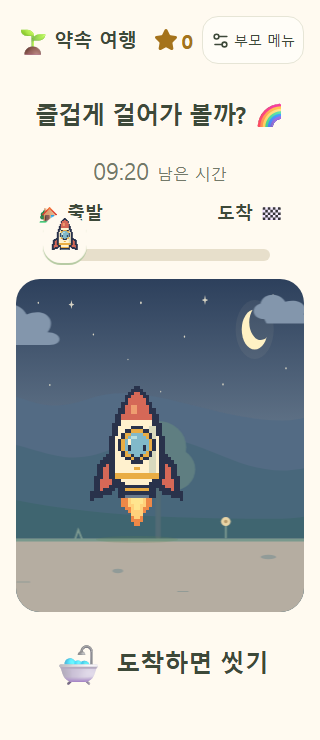
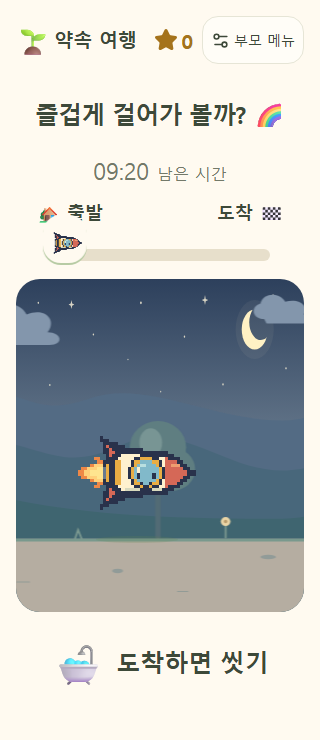
Make pixel rocket fly horizontally toward the destination

Changed region(s): [[0.25, 0.4973, 0.625, 0.7149], [0.1562, 0.2797, 0.25, 0.3419]]

diff --git a/scripts/vehicleArt.ts b/scripts/vehicleArt.ts
@@ -56,30 +56,31 @@ export function buildVehicleFrame(id: PixelVehicleId, frame: number) {
       rect(23 - puff, 11 - puff, 4, 2, 'w'); rect(22 - puff, 12 - puff, 6, 2, 'W');
     }
   } else {
-    // One upright axis at x=20 aligns the nose, window, paired fins, nozzle and exhaust.
+    // Side-on flight: nose points right and exhaust trails left on the horizontal y=30 axis.
     if (moving) {
       const pulse = [0, 1, 2, 1, 0, 2, 1, 2][phase];
-      polygon([[16, 37], [24, 37], [25, 40], [23, 43], [23, 41], [21, 45 + pulse], [19, 45 + pulse], [17, 41], [17, 43], [15, 40]], 'F');
-      polygon([[17, 37], [23, 37], [23, 40], [21, 43 + pulse], [19, 43 + pulse], [17, 40]], 'f');
-      polygon([[18, 37], [22, 37], [21, 40 + pulse], [19, 40 + pulse]], 'g');
+      polygon([[10, 26], [6, 25], [7, 27], [3 - pulse, 29], [3 - pulse, 31], [7, 33], [6, 35], [10, 34]], 'F');
+      polygon([[10, 27], [7, 27], [5 - pulse, 29], [5 - pulse, 31], [7, 33], [10, 33]], 'f');
+      polygon([[10, 28], [8, 28], [6 - pulse, 30], [8, 32], [10, 32]], 'g');
     }
-    polygon([[12, 23], [7, 28], [5, 39], [13, 36], [16, 30]], 'O');
-    polygon([[28, 23], [33, 28], [35, 39], [27, 36], [24, 30]], 'O');
-    polygon([[12, 26], [9, 29], [8, 36], [12, 34], [14, 29]], 'R');
-    polygon([[28, 26], [31, 29], [32, 36], [28, 34], [26, 29]], 'R');
-    polygon([[20, 2], [24, 6], [27, 12], [29, 20], [29, 31], [25, 36], [15, 36], [11, 31], [11, 20], [13, 12], [16, 6]], 'O');
-    polygon([[20, 4], [23, 7], [25, 13], [27, 20], [27, 30], [24, 34], [16, 34], [13, 30], [13, 20], [15, 13], [17, 7]], 'W');
-    polygon([[20, 4], [23, 7], [25, 13], [15, 13], [17, 7]], 'R');
-    rect(13, 30, 14, 2, 'G'); rect(19, 28, 2, 1, 'G');
-    rect(14, 34, 12, 4, 'O'); rect(16, 35, 8, 1, 'G'); rect(16, 37, 8, 1, 'T');
-    // Mirror on the native grid so polygon boundary ties cannot offset the tip or exhaust by half a pixel.
-    for (const row of canvas.pixels) for (let x = 0; x < 20; x++) row[39 - x] = row[x];
-    rect(18, 8, 2, 3, 'P'); rect(24, 15, 2, 15, 'w');
-    disc(20, 21, 6, 'O'); disc(20, 21, 5, 'G'); disc(20, 21, 4, 'B');
-    rect(18, 18, 2, 1, 'b'); rect(17, 19, 1, 2, 'W');
-    rect(17, 21, 1, wink ? 1 : 2, 'O'); rect(22, 21, 1, wink ? 1 : 2, 'O');
-    line(18, 24, 19, 25, 'O'); line(19, 25, 20, 25, 'O'); line(20, 25, 21, 24, 'O');
-    if (moving && phase % 3 === 0) rect(19, 14, 2, 1, 'g');
+    polygon([[20, 25], [15, 21], [8, 18], [10, 26], [13, 28]], 'O');
+    polygon([[20, 35], [15, 39], [8, 42], [10, 34], [13, 32]], 'O');
+    polygon([[17, 25], [13, 23], [10, 21], [12, 26], [14, 27]], 'R');
+    polygon([[17, 35], [13, 37], [10, 39], [12, 34], [14, 33]], 'R');
+    polygon([[39, 30], [35, 26], [29, 23], [16, 22], [11, 25], [10, 27], [10, 33], [11, 35], [16, 38], [29, 37], [35, 34]], 'O');
+    polygon([[37, 30], [34, 27], [28, 25], [16, 24], [13, 26], [12, 28], [12, 32], [13, 34], [16, 36], [28, 35], [34, 33]], 'W');
+    polygon([[37, 30], [34, 27], [29, 25], [29, 35], [34, 33]], 'R');
+    pixel(38, 29, 'O');
+    rect(13, 26, 2, 8, 'G');
+    rect(9, 26, 4, 8, 'O'); rect(10, 27, 1, 6, 'G'); rect(9, 28, 1, 4, 'T');
+    // Mirror the outline and flame before adding upright facial features and lighting.
+    for (let y = 12; y < 30; y++) canvas.pixels[59 - y] = [...canvas.pixels[y]];
+    rect(31, 27, 3, 1, 'P'); rect(16, 35, 12, 1, 'w');
+    disc(23, 30, 6, 'O'); disc(23, 30, 5, 'G'); disc(23, 30, 4, 'B');
+    rect(21, 27, 2, 1, 'b'); rect(20, 28, 1, 2, 'W');
+    rect(20, 30, 1, wink ? 1 : 2, 'O'); rect(25, 30, 1, wink ? 1 : 2, 'O');
+    line(21, 33, 22, 34, 'O'); line(22, 34, 23, 34, 'O'); line(23, 34, 24, 33, 'O');
+    if (moving && phase % 3 === 0) rect(16, 29, 1, 2, 'g');
   }
   return { pixels: canvas.pixels, paths: canvas.paths() };
 }

diff --git a/tests/pixelVehicles.test.ts b/tests/pixelVehicles.test.ts
@@ -72,17 +72,17 @@ test('driving frames change wheels/exhaust without shifting the body, and stoppe
   for (const frame of [0, 9, 10, 11, 12, 13]) assert.ok(!buildVehicleFrame('rocket', frame).pixels.flat().includes('F'));
 });
 
-test('rocket nose, body, paired fins, nozzle and flame share an upright center in every frame', () => {
+test('rocket points right on a horizontal axis with its exhaust behind it in every frame', () => {
   for (let frame = 0; frame < VEHICLE_SHEET.frames; frame++) {
     const { pixels } = buildVehicleFrame('rocket', frame);
-    for (const [y, row] of pixels.entries()) {
-      for (let x = 0; x < 20; x++) assert.equal(Boolean(row[x]), Boolean(row[39 - x]), `Frame ${frame} row ${y} leans off center`);
-      const occupied = row.flatMap((color, x) => color ? [x] : []);
-      if (occupied.length) assert.equal(occupied[0] + occupied.at(-1)!, 39, `Frame ${frame} row ${y} has a shifted axis`);
-      if (y >= 38) for (let x = 0; x < 20; x++) {
-        const flame = (color: typeof row[number]) => color === 'F' || color === 'f' || color === 'g';
-        assert.equal(flame(row[x]), flame(row[39 - x]), `Frame ${frame} exhaust points sideways`);
-      }
+    for (let x = 0; x < 40; x++) {
+      const column = pixels.map((row) => row[x]);
+      const occupied = column.flatMap((color, y) => color ? [y] : []);
+      if (occupied.length) assert.equal(occupied[0] + occupied.at(-1)!, 59, `Frame ${frame} column ${x} tilts off the horizontal axis`);
+      for (let y = 12; y < 30; y++) assert.equal(Boolean(column[y]), Boolean(column[59 - y]), `Frame ${frame} column ${x} has an uneven outline`);
     }
+    assert.equal(pixels[29][38], 'O', 'Nose must face the destination on the right');
+    assert.equal(pixels[30][38], 'O');
+    for (const row of pixels) for (const [x, color] of row.entries()) if (color === 'F' || color === 'f') assert.ok(x < 9, 'Exhaust must trail behind the nozzle on the left');
   }
 });

diff --git a/src/lib/pixelVehicles.ts b/src/lib/pixelVehicles.ts
@@ -11,8 +11,8 @@ export const vehicleMotion = {
 } as const;
 export function isPixelVehicle(id: string): id is PixelVehicleId { return PIXEL_VEHICLES.some((vehicle) => vehicle === id); }
 export function vehicleAsset(id: PixelVehicleId) {
-  // A new filename also refreshes previously cached diagonal rocket artwork.
-  return `/characters/pixel-v1/${id === 'rocket' ? 'rocket-upright-v2' : id}.svg`;
+  // Refresh earlier cached artwork when switching to right-facing horizontal flight.
+  return `/characters/pixel-v1/${id === 'rocket' ? 'rocket-horizontal-v3' : id}.svg`;
 }
 
 /** Wheel circumference and scenery share one elapsed clock; rocket exhaust uses its flight cycle. */

diff --git a/docs/character-design/vehicles-pixel-v1/README.md b/docs/character-design/vehicles-pixel-v1/README.md
@@ -8,11 +8,11 @@
 
 - **자동차:** 기존 빨간색 계열의 소형차, 밝은 창문과 웃는 얼굴, 두 바퀴 회전.
 - **기차:** 초록·금색 기관차, 오른쪽을 향한 굴뚝, 세 바퀴·연결봉과 작은 증기.
-- **로켓:** 크림·주황색의 수직 우주선. 머리·몸통·창문·양쪽 날개·분사구·불꽃을 하나의 중심축에 맞췄습니다.
+- **로켓:** 오른쪽을 향해 수평으로 나는 크림·주황색 우주선. 머리·몸통·날개·분사구·왼쪽 불꽃을 같은 가로 중심선에 맞췄으며 창문 속 얼굴은 바른 방향을 유지합니다.
 
 ## 구현
 
-`scripts/pixelArt.ts`는 픽셀 격자 도구이고, `scripts/vehicleArt.ts`가 그림을 정의합니다. `scripts/generate-pixel-vehicles.ts`를 실행하거나 `npm run characters`를 사용하면 `public/characters/pixel-v1/`에 `car.svg`, `train.svg`, `rocket-upright-v2.svg`를 생성합니다. 캐릭터마다 준비 1장·이동 8장·점프 1장·착지 1장·축하 3장으로 총 14장의 전신 프레임을 보관합니다. 로켓은 새 파일명으로 이전 대각선 그림의 브라우저 캐시를 갱신하며, 기존 `rocket.svg`는 이전 앱 버전의 요청을 위해 유지합니다.
+`scripts/pixelArt.ts`는 픽셀 격자 도구이고, `scripts/vehicleArt.ts`가 그림을 정의합니다. `scripts/generate-pixel-vehicles.ts`를 실행하거나 `npm run characters`를 사용하면 `public/characters/pixel-v1/`에 `car.svg`, `train.svg`, `rocket-horizontal-v3.svg`를 생성합니다. 캐릭터마다 준비 1장·이동 8장·점프 1장·착지 1장·축하 3장으로 총 14장의 전신 프레임을 보관합니다. 로켓은 새 파일명으로 이전 그림의 브라우저 캐시를 갱신하며, 기존 `rocket.svg`와 `rocket-upright-v2.svg`는 이전 앱 버전의 요청을 위해 유지합니다.
 
 `PixelVehicleArtwork.tsx`를 선택 카드, 작은 진행 아이콘과 여행 화면에서 함께 사용합니다. 모든 표시 영역은 한 프레임만 보여주도록 잘라내며, 자산 주소는 `assetPath()`로 `/timer/`를 적용합니다. 실제 그림은 SVG의 정수 사각 경로로 구성하여 회전·보간으로 픽셀 가장자리가 흐려지지 않습니다.
 
@@ -24,10 +24,12 @@
 
 ## 검증
 
-`tests/pixelVehicles.test.ts`에서 기존 주기·접지 높이·바퀴 둘레와 지면 이동·모션 감소·42개 프레임의 실제 SVG 픽셀 격자를 검사합니다. 로켓 14개 프레임은 모든 행의 실루엣과 불꽃이 수직 중심선에 좌우 대칭인지 추가 검사합니다. `tests/e2e/pixel-vehicles.spec.ts`에서 세 캐릭터의 반복 선택·자산 로딩·한 프레임 잘림·이동·일시정지·새로고침·재개·50%·90%·도착·소리 1회·별 보상·320px과 가로 화면을 검사합니다.
+`tests/pixelVehicles.test.ts`에서 기존 주기·접지 높이·바퀴 둘레와 지면 이동·모션 감소·42개 프레임의 실제 SVG 픽셀 격자를 검사합니다. 로켓 14개 프레임은 실루엣이 가로 중심선에 위아래로 정렬되는지, 앞부분은 오른쪽을 향하고 불꽃은 왼쪽 분사구 뒤에만 있는지 추가 검사합니다. `tests/e2e/pixel-vehicles.spec.ts`에서 세 캐릭터의 반복 선택·자산 로딩·한 프레임 잘림·이동·일시정지·새로고침·재개·50%·90%·도착·소리 1회·별 보상·320px과 가로 화면을 검사합니다.
 
 PC Chromium과 모바일 WebKit을 사용하며, 실제 iPhone 하드웨어의 소리·잠금 정책 검증을 대체하지는 않습니다.
 
 2026-10-09: 타입 검사·린트·정적 빌드·`/timer/` 자산 검사와 단위 검사 55개 통과. 기존 친구·왕자 관련 브라우저 검사 12개와 차량 검사 6개 통과. 최종 축하 회전을 제거한 빌드에서도 차량 검사 6개를 다시 확인했습니다.
 
 2026-10-09 로켓 수직 정렬 수정: 타입 검사·린트·정적 빌드·단위 검사 56개와 로켓 브라우저 검사 2개(Chromium·모바일 WebKit) 통과. 선택 카드와 320px 이동 화면·프레임 시안을 갱신했습니다.
+
+2026-10-09 로켓 수평 비행 수정: 오른쪽을 향한 원화와 왼쪽 분사 불꽃으로 갱신했습니다. 타입 검사·린트·정적 빌드·단위 검사 56개와 로켓 브라우저 검사 2개(Chromium·모바일 WebKit) 통과. 선택 카드와 작은 진행 아이콘·이동 화면에 같은 수평 원화를 사용합니다.
